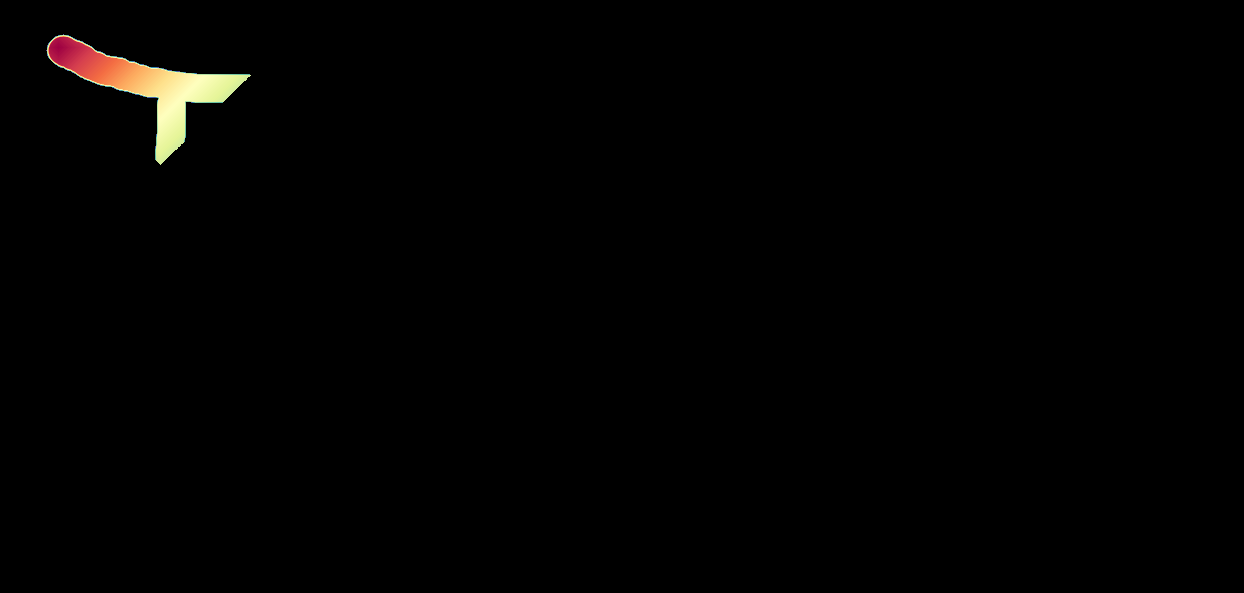
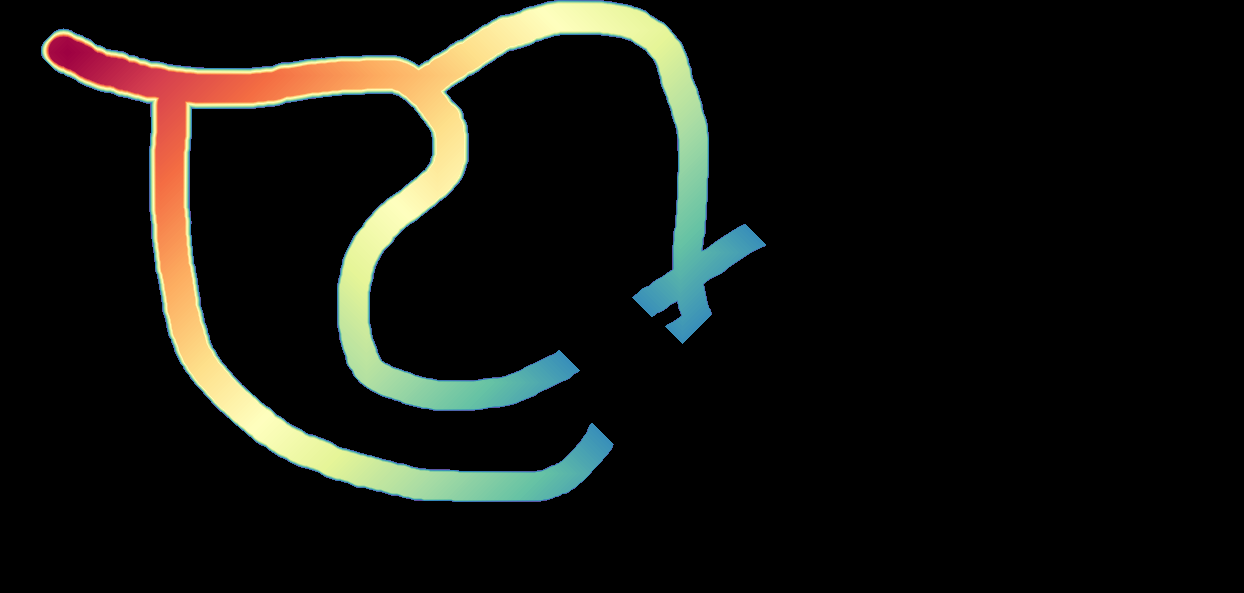
Edge detection ended

Changed region(s): [[0.0305, 0.0, 0.6109, 0.8499]]

diff --git a/interface.py b/interface.py
@@ -48,6 +48,15 @@ class Fenetre(widgets.QLabel):
             point = self.mapFromGlobal(point)
             print("mapped", point.x(), point.y())
             point = pc.Point(int(self.parent().ratio*point.x()), int(self.parent().ratio*point.y()))
+            if self.parent()._menu.contour_mode:
+                self.parent()._menu.contour_points.append(point)
+                if len(self.parent()._menu.contour_points) == 1:
+                    self.ps = self.mapFromGlobal(gui.QCursor.pos())  # first point
+                else:
+                    self.pe = self.mapFromGlobal(gui.QCursor.pos())  # second point
+                self.update()
+                self.parent()._menu._vue.texte.setText(f"{len(self.parent()._menu.contour_points)}/2 points sélectionnés pour le contour")
+                return
             if self.parent()._menu.starting_point is None: # first point
                 self.ps = self.mapFromGlobal(gui.QCursor.pos())
                 self.parent()._menu.starting_point = point
@@ -175,6 +184,11 @@ class Menu(widgets.QGroupBox):
         self.next_edge_button.setGeometry(10, 330, 180, 40) 
         self.next_edge_button.clicked.connect(self.show_next_edge_image)
         self.next_edge_button.hide()
+        # edge button
+        self.contour_button = widgets.QPushButton("Draw the edge", self)
+        self.contour_button.setGeometry(10, 370, 180, 40)
+        self.contour_button.clicked.connect(self.trace_contour)
+        self.contour_button.hide()
 
         self._vue = vue
         # starting image
@@ -203,6 +217,11 @@ class Menu(widgets.QGroupBox):
         self.current_edge_step = 0
         self.edge_steps = []
         self._edge_detection = False
+        # edge contour tracing
+        self.contour_mode = False
+        self.contour_points = []
+        self._weight_map_float = None  # Carte W en float pour les calculs
+        self._contour_result_name = "contour_result.png"
         # starting and ending points
         self._starting_point = None
         self._ending_point = None
@@ -358,7 +377,8 @@ class Menu(widgets.QGroupBox):
             magnitude = edge.compute_gradient_magnitude(im)
             smoothed = edge.smooth_gradient_magnitude(magnitude, sigma=1.5)
             weight_map = edge.compute_edge_weight_map(smoothed, epsilon=0.1)
-    
+            self._weight_map_float = weight_map
+
             # Function to normalize and save images
             def normalize_and_save(array: np.ndarray, filename: str):
                 if array.size == 0 or array.max() == 0:
@@ -383,7 +403,7 @@ class Menu(widgets.QGroupBox):
             self._edge_images_computed = True
             print("Edge detection maps computed and saved.")
 
-        # Préparation de la séquence d'affichage
+        # Prepare for displaying edge detection images
         self.current_edge_step = 0
         self.edge_steps = [
             (self._original_image_name, "Edge detection: 1. Original image"),
@@ -391,10 +411,10 @@ class Menu(widgets.QGroupBox):
             (self._weight_map_name, "Edge detection: 3. Weight map W(x,y) = 1/(ε + smoothed)")
         ]
 
-        # Afficher le bouton de navigation
+        # Show the next edge image button
         self.next_edge_button.show()
 
-        # Lancer l'affichage de la première image
+        # Launch the display of the first image
         self.show_next_edge_image()
     
     # Reset edge detection button functionality
@@ -416,8 +436,69 @@ class Menu(widgets.QGroupBox):
             # End of the sequence
             self._vue.texte.setText("Edge detection completed.\nYou can now select two points on a contour.")
             self._vue.print_stocked_image(self._original_image_name)
-            self.next_edge_button.hide() 
+            self.next_edge_button.hide()
+            self.contour_button.show()
+            self.contour_mode = True
+            self.contour_points = []
             self.current_edge_step = 0
+    
+    # Contour tracing button functionality
+    def trace_contour(self) -> None:
+        if len(self.contour_points) != 2:
+            self._vue.texte.setText("Error: select exactly two points.")
+            return
+
+        start, goal = self.contour_points
+        im = self._original_image_grey_level
+        weight_map = self._weight_map_float
+
+        list_visited = []
+        # Distances calculation with edge detection
+        dist_dict = dijkstra.distances_costs(
+            start=start,
+            end=None,
+            grey_levels=im,
+            list_visited=list_visited,
+            edge_detection=True,
+            weight_map=weight_map
+        )
+        # Gradient descent from goal to start
+        path = self.reconstruct_path(dist_dict, goal, start)
+        # Saving image with contour
+        result_img = self.draw_contour(path, im)
+        result_img.save(self._contour_result_name)
+        self._vue.print_stocked_image(self._contour_result_name)
+        self._vue.texte.setText(f"Detected edge ! Length : {len(path)} pixels")
+        # Reset contour mode
+        self.contour_mode = False
+
+    def reconstruct_path(self, dist: dict, current: pc.Point, start: pc.Point) -> list[pc.Point]:
+        path = [current]
+        while current != start and dist[current] > 0:
+            neighbors = self._original_image_grey_level.neighbors(current)
+            best = min(neighbors, key=lambda n: dist.get(n, np.inf))
+            if dist[best] >= dist[current]:
+                break
+            current = best
+            path.append(current)
+        path.reverse()
+        return path
+
+    def draw_contour(self, path: list[pc.Point], grey_img: ui.GreyImage) -> Image.Image:
+        arr = grey_img.to_numpy_array()
+        # Convert to uint8 for RGB stacking
+        arr_uint8 = arr.astype(np.uint8)
+        rgb = np.stack([arr_uint8, arr_uint8, arr_uint8], axis=-1)  # shape (H, W, 3), uint8
+        
+        # red line drawing
+        for p in path:
+            for dx in [-2, -1, 0, 1, 2]:
+                for dy in [-2, -1, 0, 1, 2]:
+                    nx, ny = p.x + dx, p.y + dy
+                    if 0 <= nx < grey_img.width and 0 <= ny < grey_img.height:
+                        rgb[ny, nx] = [255, 0, 0]
+        
+        return Image.fromarray(rgb)
 class Window(widgets.QMainWindow):
     """A simple window class to open and display an image."""
     def __init__(self) -> None:

diff --git a/dijkstra.py b/dijkstra.py
@@ -41,7 +41,7 @@ class PriorityQueue_heap:
         """Returns the number of points in the priority queue."""
         return len(self._heap) 
         
-def distances_costs(start: pc.Point, end: pc.Point, grey_levels: ui.GreyImage, 
+def distances_costs(start: pc.Point, end: pc.Point|None, grey_levels: ui.GreyImage, 
                     list_visited: list[pc.Point], edge_detection: bool = False,
                     weight_map: np.ndarray|None = None, 
                     obs: obs.Observer|None = None) -> tuple[dict[pc.Point, float], list[pc.Point]]:
@@ -55,14 +55,14 @@ def distances_costs(start: pc.Point, end: pc.Point, grey_levels: ui.GreyImage,
     while to_visit.size() > 0:
         candidate = to_visit.remove()
         list_visited.append(candidate)
-        if candidate == end: # On arrête dès qu'on a trouvé le point final
+        if end is not None and candidate == end: # On arrête dès qu'on a trouvé le point final
             print(candidate)
             print(candidate.norm(end))
             break
         for neighbor in grey_levels.neighbors(candidate):
             assert neighbor.x < grey_levels.width and neighbor.y < grey_levels.height
             if edge_detection:
-                cost = edge.cost_edges_edge_detection(neighbor, dist, grey_levels, weight_map)
+                cost = weight_map[neighbor.y, neighbor.x]
             else:
                 cost = grey_levels.cost(start, neighbor, epsilon)
             if dist[neighbor] > dist[candidate] + cost:
@@ -317,8 +317,8 @@ if __name__ == "__main__":
     print(im.width, im.height)
     # start = pc.Point(446,332)
     # end = pc.Point(716,272)
-    start = pc.Point(58,47)
-    end = pc.Point(165,159)
+    start = pc.Point(170,296)
+    end = pc.Point(53,51)
     list_visited = []
     distances = distances_costs(start, end, im, list_visited)
     print("distances okay")
